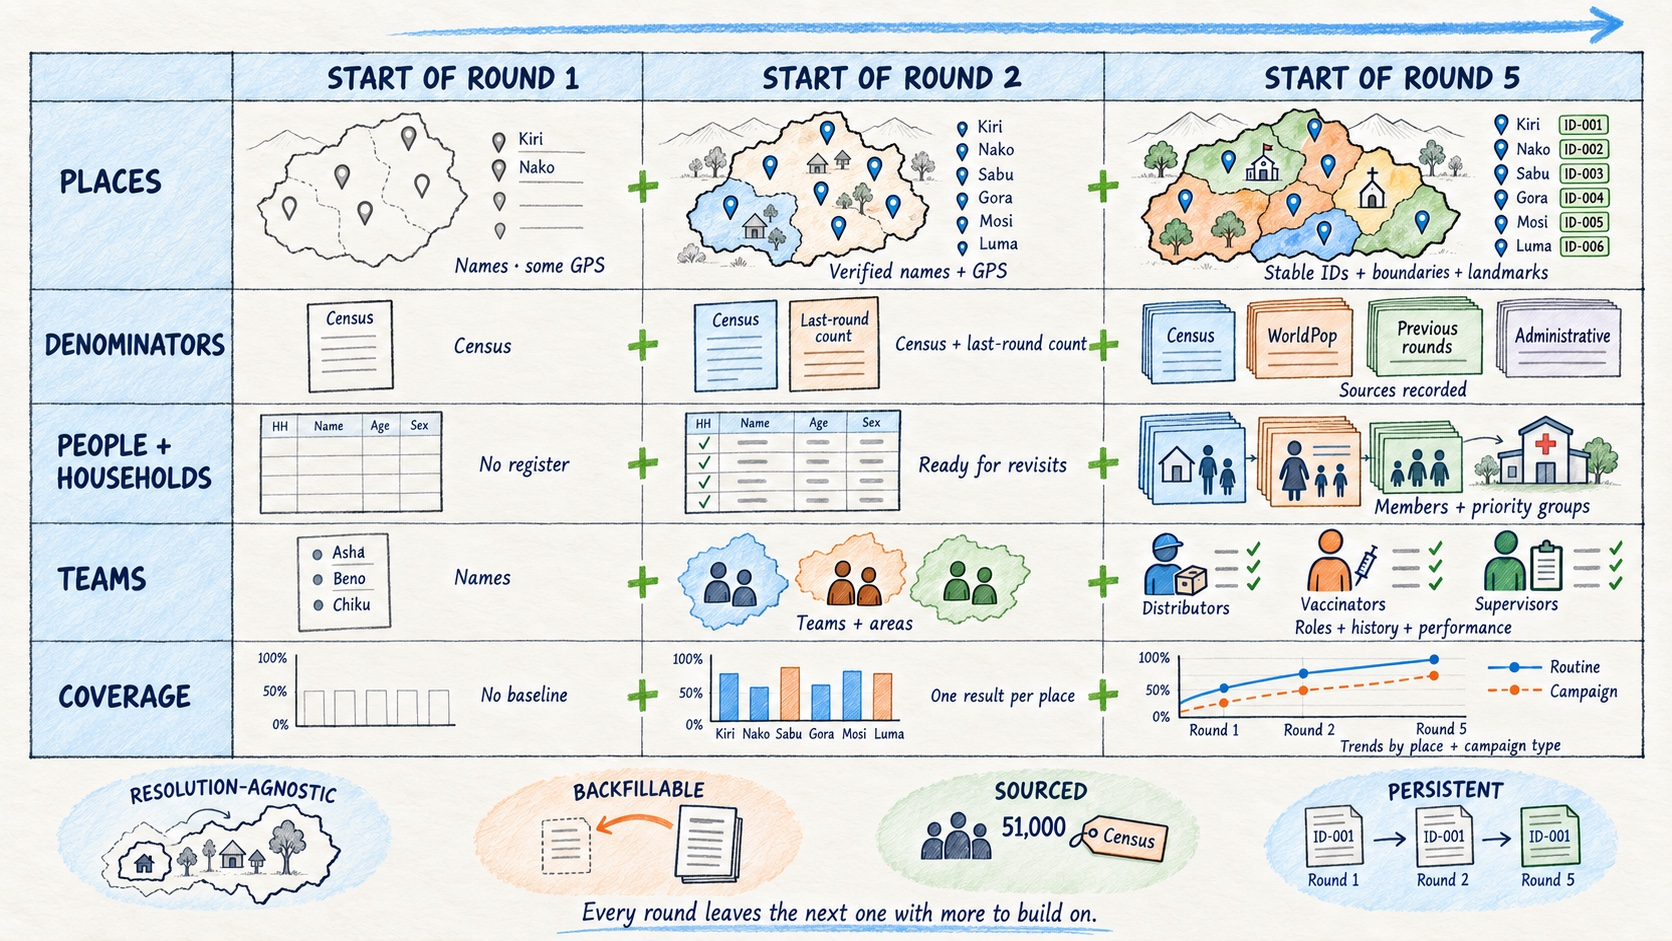
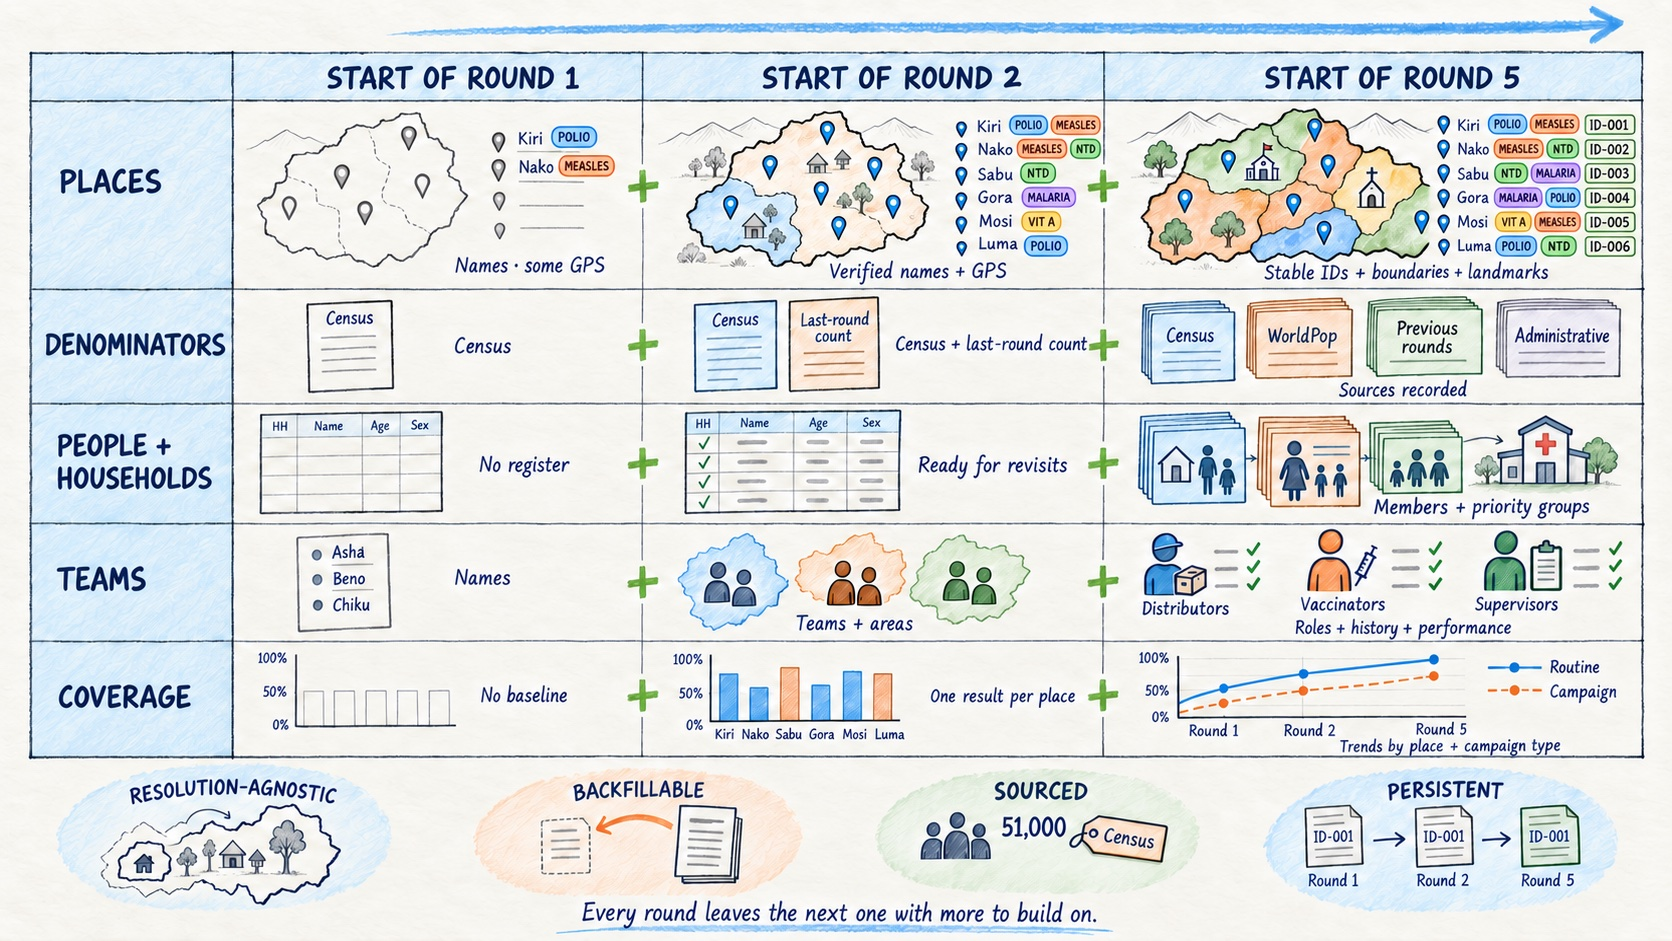
site: refresh the data-compounds and skip-pre-census figures
New drawings show which programmes have worked in each place, so the
cross-programme reuse point is visible in the figures. Same filenames
and dimensions; alt text updated to match.

diff --git a/site/index.html b/site/index.html
@@ -270,7 +270,7 @@ footer .support{flex-basis:100%;font-size:13px;margin-top:6px}
         <div class="detail">
           <figure class="shot">
             <a href="img/skip-pre-census-full.jpg" target="_blank" rel="noopener" title="Open the full-size image in a new tab">
-              <img src="img/skip-pre-census.jpg" alt="Hand-drawn settlement map: six villages each labelled with the date they were last visited and the households and people counted there, beside a clipboard listing all six ticked off for the next round under the note 'start from verified registers'" width="1400" height="788" loading="lazy">
+              <img src="img/skip-pre-census.jpg" alt="Hand-drawn settlement map: six villages each labelled with the campaigns that have worked there, such as polio, measles, NTD, malaria, and vitamin A, the date they were last visited, and the households and people counted there, beside a clipboard listing all six ticked off for the next round under the note 'start from verified registers'" width="1400" height="788" loading="lazy">
             </a>
             <figcaption><a class="go" href="https://dashboards.healthcampaigns.org/microplan" target="_blank" rel="noopener">Microplan dashboard ↗</a></figcaption>
           </figure>
@@ -298,7 +298,7 @@ footer .support{flex-basis:100%;font-size:13px;margin-top:6px}
         <div class="detail">
           <figure class="shot">
             <a href="img/data-compounds-full.jpg" target="_blank" rel="noopener" title="Open the full-size image in a new tab">
-              <img src="img/data-compounds.jpg" alt="Hand-drawn table comparing what a campaign starts with at round 1, round 2, and round 5 across places, denominators, people and households, teams, and coverage, growing from names and a single census figure to stable IDs, several sourced denominators, household registers, team histories, and coverage trends; below it four properties: resolution-agnostic, backfillable, sourced, and persistent" width="1400" height="788" loading="lazy">
+              <img src="img/data-compounds.jpg" alt="Hand-drawn table comparing what a campaign starts with at round 1, round 2, and round 5 across places, denominators, people and households, teams, and coverage, growing from a few place names tagged with one campaign and a single census figure to places with stable IDs shared across polio, measles, NTD, malaria, and vitamin A campaigns, several sourced denominators, household registers, team roles and histories, and routine and campaign coverage trends; below it four properties: resolution-agnostic, backfillable, sourced, and persistent" width="1400" height="788" loading="lazy">
             </a>
             <figcaption><a class="go" href="https://dashboards.healthcampaigns.org/coverage" target="_blank" rel="noopener">Campaign coverage ↗</a></figcaption>
           </figure>
